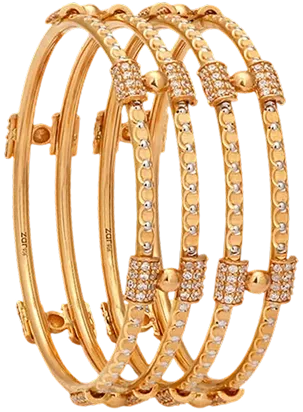
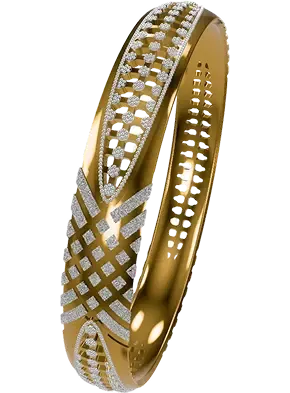
footer font italic and hide label in 3d slider

diff --git a/src/components/ui/organisms/RetailerSlider/RetailerSlider.tsx b/src/components/ui/organisms/RetailerSlider/RetailerSlider.tsx
@@ -145,12 +145,12 @@ export default function RetailerSlider() {
         <Swiper
           modules={[Autoplay]}
           loop={true}
-          autoplay={{
-            delay: 3000,
-            disableOnInteraction: false,
-            pauseOnMouseEnter: true,
-            reverseDirection: true,
-          }}
+          // autoplay={{
+          //   delay: 3000,
+          //   disableOnInteraction: false,
+          //   pauseOnMouseEnter: true,
+          //   reverseDirection: true,
+          // }}
           centeredSlides={true}
           slidesPerView={3}
           spaceBetween={50}

diff --git a/src/components/ui/organisms/ModelShowcaseSection/ModelShowcaseSection.module.css b/src/components/ui/organisms/ModelShowcaseSection/ModelShowcaseSection.module.css
@@ -21,9 +21,16 @@
   transform: scale(0.8);
   opacity: 1;
 }
+.slider :global(.swiper-slide) .cardLabel {
+  opacity: 0;
+  transition: opacity 0.3s ease;
+}
 
 .slider :global(.swiper-slide-active) {
   transform: scale(1);
+  opacity: 1;
+}
+.slider :global(.swiper-slide-active) .cardLabel {
   opacity: 1;
 }
 

diff --git a/src/components/ui/organisms/Footer/Footer.module.css b/src/components/ui/organisms/Footer/Footer.module.css
@@ -56,11 +56,10 @@
 
 .quoteText {
   font-family: var(--font-heading);
-  font-size: var(--fs-3xl);
-  font-weight: var(--fw-semibold);
+  font-size: 60px;
+  font-weight: 600;
   line-height: 66px;
   color: var(--color-gold-accent);
-  font-style: italic;
 }
 
 /* ── Footer Top ── */

diff --git a/src/components/ui/organisms/ModelShowcaseSection/ModelShowcaseSection.tsx b/src/components/ui/organisms/ModelShowcaseSection/ModelShowcaseSection.tsx
@@ -5,18 +5,17 @@ import { Swiper, SwiperSlide } from 'swiper/react';
 import { Autoplay } from 'swiper/modules';
 import type { Swiper as SwiperType } from 'swiper';
 import 'swiper/css';
-import 'swiper/css/autoplay';
 import styles from './ModelShowcaseSection.module.css';
 
 const models = [
   { name:'Dazzling-1' , src: '/images/models/ZAR-1.glb', alt: 'Interactive 3D jewellery model 1', poster: '/images/homepage/product_1.webp' },
   { name:'Dazzling-2' , src: '/images/models/ZAR-2.glb', alt: 'Interactive 3D jewellery model 2', poster: '/images/homepage/product_2.webp' },
   { name:'Dazzling-3' , src: '/images/models/ZAR-3.glb', alt: 'Interactive 3D jewellery model 3', poster: '/images/homepage/product_3.webp' },
-  { name:'Dazzling-4' , src: '/images/models/ZAR-4.glb', alt: 'Interactive 3D jewellery model 4', poster: '/images/homepage/product_1.webp' },
+  { name:'Dazzling-4' , src: '/images/models/ZAR-4.glb', alt: 'Interactive 3D jewellery model 4', poster: '/images/homepage/product_4.webp' },
   { name:'Dazzling-1' , src: '/images/models/ZAR-1.glb', alt: 'Interactive 3D jewellery model 1', poster: '/images/homepage/product_1.webp' },
   { name:'Dazzling-2' , src: '/images/models/ZAR-2.glb', alt: 'Interactive 3D jewellery model 2', poster: '/images/homepage/product_2.webp' },
   { name:'Dazzling-3' , src: '/images/models/ZAR-3.glb', alt: 'Interactive 3D jewellery model 3', poster: '/images/homepage/product_3.webp' },
-  { name:'Dazzling-4' , src: '/images/models/ZAR-4.glb', alt: 'Interactive 3D jewellery model 4', poster: '/images/homepage/product_1.webp' },
+  { name:'Dazzling-4' , src: '/images/models/ZAR-4.glb', alt: 'Interactive 3D jewellery model 4', poster: '/images/homepage/product_4.webp' },
 ];
 
 const ArrowIcon = () => (

diff --git a/docs/frontend-security-performance-api-readiness-checklist.md b/docs/frontend-security-performance-api-readiness-checklist.md
@@ -1,0 +1,180 @@
+# Frontend Readiness Checklist (Security, Tokens, Cache, Speed, Skeletons, API)
+
+Date: 2026-04-29
+Scope: Next.js frontend audit for production readiness
+
+## Executive Summary
+
+Current frontend is visually rich and functional, but production hardening is still needed in 7 areas:
+1. Security hardening is partial (basic validation exists, headers/rate limits/CSP missing).
+2. Token strategy is unclear (design tokens exist, auth/API tokens strategy is not implemented).
+3. Caching strategy is mostly absent (almost no fetch caching/revalidation patterns).
+4. Speed can improve significantly (many client components, heavy above-the-fold sections).
+5. Route-level skeleton/loading states are missing.
+6. API consumption layer is minimal (single direct fetch, no shared API client).
+7. Need a focused frontend delivery plan for stabilization.
+
+---
+
+## 1) Security
+
+### Current state
+- Basic API payload validation exists in `src/app/api/contact/route.ts`.
+- Client-side form validation exists in `src/app/contact/ContactForm.tsx`.
+- No explicit security headers/CSP setup in `next.config.ts`.
+- No visible rate limiting / anti-abuse for contact endpoint.
+- Large inline SVG HTML string is rendered with `dangerouslySetInnerHTML` in `src/app/collections/[purity]/[category]/[style]/[id]/page.tsx`.
+
+### Action items
+- [ ] Add HTTP security headers in `next.config.ts`:
+  - `Content-Security-Policy`
+  - `X-Frame-Options`
+  - `Referrer-Policy`
+  - `X-Content-Type-Options`
+  - `Permissions-Policy`
+- [ ] Add basic rate limiting for `POST /api/contact` (IP + short time window).
+- [ ] Add server-side length caps + stricter sanitization for all contact fields.
+- [ ] Replace `dangerouslySetInnerHTML` SVG strings with React SVG components or static files.
+- [ ] Add bot mitigation for contact form (honeypot + optional Turnstile/reCAPTCHA).
+- [ ] Return generic server error messages in production.
+
+Priority: P0
+
+---
+
+## 2) Tokens
+
+### Current state
+- Design tokens are centralized in `src/styles/variables.css` (good baseline).
+- Auth/API token flow is not defined (no JWT/session/token storage pattern found).
+
+### Action items
+- [ ] Keep design tokens in `variables.css`, but document naming rules and semantic tokens (`--color-text-primary`, `--surface-muted`, etc.).
+- [ ] Create an auth/token decision doc for frontend:
+  - If auth is planned, use secure httpOnly cookies (not localStorage).
+  - Define token refresh behavior and logout handling.
+  - Define route protection strategy (server components vs client guards).
+- [ ] Add `.env.example` for public runtime config (`NEXT_PUBLIC_API_BASE_URL`, feature flags).
+
+Priority: P0 for auth-token decision, P2 for design-token cleanup
+
+---
+
+## 3) Cache
+
+### Current state
+- Very limited explicit cache strategy in app routes.
+- Data in product listing/detail pages is mocked static content; no fetch caching policy yet.
+
+### Action items
+- [ ] Introduce a shared server data layer (`src/lib/api/*`) with explicit fetch options:
+  - `next: { revalidate: <seconds> }` for catalog data
+  - `cache: 'no-store'` only where truly dynamic
+- [ ] Use tag-based revalidation for product collections when CMS/backend updates.
+- [ ] For client-side interactive lists, add query caching (SWR or TanStack Query).
+- [ ] Add image caching and long-lived cache-control policy for static assets.
+
+Priority: P1
+
+---
+
+## 4) Speed (Performance)
+
+### Current state
+- Home route composes many heavy sections directly in `src/app/page.tsx`.
+- Many components are client components (`'use client'`) where server rendering could be used.
+- 3D section dynamically imports `@google/model-viewer` in `src/components/ui/organisms/ModelShowcaseSection/ModelShowcaseSection.tsx` (good), but still loaded in main page flow.
+- Very large inline SVG constants in product detail page increase bundle parse/transfer cost.
+- No route-level loading UI files found.
+
+### Action items
+- [ ] Move non-interactive sections to server components where possible.
+- [ ] Lazy-load below-the-fold heavy sections via dynamic imports.
+- [ ] Load 3D model section only when near viewport (intersection observer gate).
+- [ ] Replace giant inline SVG string constants with static SVG assets/components.
+- [ ] Audit image `sizes` and `priority` usage to reduce LCP and over-fetching.
+- [ ] Add bundle analyzer and set performance budgets.
+
+Priority: P1
+
+---
+
+## 5) Skeletons / Loading UX
+
+### Current state
+- Component-level skeleton exists for collection grid (`src/components/ui/organisms/CollectionGrid/CollectionGrid.tsx`).
+- No route-level `loading.tsx` files were found under `src/app/**`.
+
+### Action items
+- [ ] Add route-level loading skeletons:
+  - `src/app/loading.tsx` (global shell)
+  - `src/app/collections/loading.tsx`
+  - `src/app/collections/[purity]/[category]/[style]/loading.tsx`
+  - `src/app/collections/[purity]/[category]/[style]/[id]/loading.tsx`
+  - `src/app/contact/loading.tsx`
+- [ ] Ensure skeletons match final layout dimensions to avoid CLS.
+- [ ] Add delayed spinner/skeleton strategy (show only if request > 150-250ms).
+
+Priority: P1
+
+---
+
+## 6) Frontend API Readiness
+
+### Current state
+- Contact form submits directly with `fetch('/api/contact')` in `src/app/contact/ContactForm.tsx`.
+- No shared API client, retry strategy, or unified error mapping.
+- Product pages still use mocked data.
+
+### Action items
+- [ ] Build a typed API client layer:
+  - `src/lib/api/client.ts` (base fetch wrapper)
+  - `src/lib/api/contact.ts`, `src/lib/api/products.ts`, etc.
+- [ ] Add common response schema + error normalization.
+- [ ] Add request timeout + abort controller.
+- [ ] Add telemetry hooks for API failures and latency.
+- [ ] Replace mocked product/listing data with real API integration.
+- [ ] Add TypeScript types generated from backend contract (OpenAPI or shared types).
+
+Priority: P0
+
+---
+
+## 7) What frontend must fix/do now (execution plan)
+
+## Phase 1 (This week, critical)
+- [ ] Add security headers and CSP in `next.config.ts`.
+- [ ] Create shared API client and move contact submit to it.
+- [ ] Add route-level loading skeletons for core routes.
+- [ ] Remove/replace `dangerouslySetInnerHTML` SVG payload.
+- [ ] Define token/auth strategy document (cookie-based if auth is required).
+
+## Phase 2 (Next sprint)
+- [ ] Integrate real products API and caching (`revalidate`/tags).
+- [ ] Reduce `'use client'` surface by converting static sections to server components.
+- [ ] Lazy-load heavy home sections and optimize 3D loading trigger.
+- [ ] Add performance monitoring (LCP, INP, CLS) + bundle analyzer.
+
+## Phase 3 (Stabilization)
+- [ ] Add anti-abuse controls (rate limit + captcha/honeypot) for form endpoints.
+- [ ] Add client query cache strategy (SWR/TanStack Query).
+- [ ] Final accessibility/performance pass and regression checklist.
+
+---
+
+## Suggested ownership (Frontend)
+- Security headers/CSP: Frontend + DevOps
+- API client/types/contracts: Frontend + Backend
+- Cache/revalidation design: Frontend lead
+- Skeletons/loading UX: Frontend UI team
+- Performance budgets/monitoring: Frontend + QA
+
+---
+
+## Definition of Done for frontend readiness
+- [ ] Security headers enabled and verified in production.
+- [ ] API client layer adopted by all network calls.
+- [ ] Core routes have loading skeletons and no major CLS.
+- [ ] Product pages consume real API data with caching strategy.
+- [ ] LCP/INP/CLS within target budgets on mobile and desktop.
+- [ ] No unsafe HTML injection path for static decorative assets.